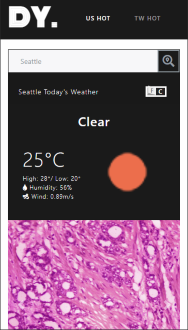
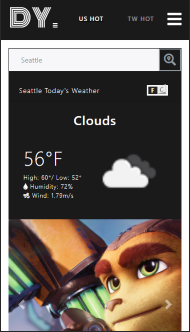
UPDATE: readme file

diff --git a/README.md b/README.md
@@ -6,7 +6,11 @@
 
 #### On Phone
 
-![phonescreen](./image/phonescreenshot.png)
+![phonescreen](./image/phonescreenshot.png) ![phonescreen](./image/phonescreenshot2.png)
+
+### Taiwan News
+
+![tw_page](./image/tw-hot-screenshot.png)
 
 ## Description
 
